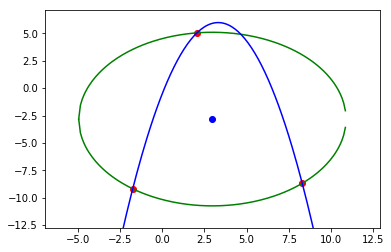
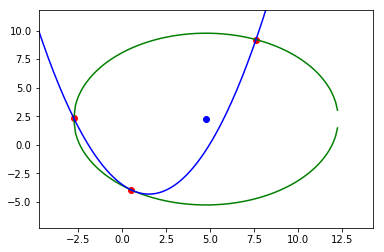
Jupyter Demo Notebook update

diff --git a/demo/plottingpoints.md b/demo/plottingpoints.md
@@ -102,6 +102,7 @@ def plot_quadratic(a,b,c):
 if __name__ == "__main__":
     from random import uniform as rand
     for i in range(5): #how many to show (in series)
+        print("="*40)
         points = ((rand(-10,10),rand(-10,10)),
                   (rand(-10,10),rand(-10,10)),
                   (rand(-10,10),rand(-10,10)))
@@ -110,16 +111,16 @@ if __name__ == "__main__":
         print("Center: "+str(cen))
         print("Radius: "+str(r))
         a, b, c = quadratic(points)
-        print("Quadratic: {}x^2+{}x+{}".format(a,b,c))  
+        print("Approx. quadratic equation: {}x^2+{}x+{}".format(round(a,2),round(b,2),round(c,2)))  
         plot(points, cen, r, a, b, c)
-        print("="*40)
 
 ```
 
-    Points: ((-1.7427085921923346, -9.182150993823653), (2.0614928355345477, 5.042412398201531), (8.301109853121599, -8.683272284302486))
-    Center: (2.975733286179632, -2.8230684494276193)
-    Radius: 7.918435739842605
-    Quadratic: -0.5913025988193992x^2+3.927669933441686x+-0.541561207602363
+    ========================================
+    Points: ((7.6108989105313825, 9.214517013713536), (-2.7531581756468837, 2.3335015453326236), (0.49648230279160366, -3.937366642695846))
+    Center: (4.766633714274075, 2.2529137534522503)
+    Radius: 7.520223697465466
+    Approx. quadratic equation: 0.36x^2+-1.11x+-3.48
 
 
 
@@ -127,10 +128,10 @@ if __name__ == "__main__":
 
 
     ========================================
-    Points: ((-0.6956753436643215, 9.668625745947885), (-8.349539467626334, -4.567408288034911), (5.090701731350599, 0.7702187037994594))
-    Center: (-3.090609235839241, 1.780708952705973)
-    Radius: 8.243478615547922
-    Quadratic: -0.2528079698111683x^2+-0.426722413761848x+9.494115486868209
+    Points: ((7.999371175378258, -1.2845517181872363), (-1.1430719461633174, 3.6872871732936936), (-1.966592653023163, 6.920611566044922))
+    Center: (6.819081364625115, 7.436767009433732)
+    Radius: 8.80082293800528
+    Approx. quadratic equation: 0.34x^2+-2.87x+-0.04
 
 
 
@@ -138,10 +139,10 @@ if __name__ == "__main__":
 
 
     ========================================
-    Points: ((8.253297097017555, -1.291685980568321), (5.651554358162045, -6.347312347285605), (2.5910532417972263, -2.585449418950465))
-    Center: (5.705304268938077, -3.1777014984826213)
-    Radius: 3.1700665585690784
-    Quadratic: 0.5602610842278507x^2+-5.847177948366613x+8.803555290686623
+    Points: ((8.218981057736052, -3.3342046937055203), (4.28972617025611, 6.760352896009888), (-1.4979977611907547, -6.793526420657329))
+    Center: (1.5936946685927742, -0.10106354453926458)
+    Radius: 7.3720839271266625
+    Approx. quadratic equation: -0.51x^2+3.75x+-0.04
 
 
 
@@ -149,15 +150,10 @@ if __name__ == "__main__":
 
 
     ========================================
-    Points: ((6.941295508396017, 7.461345825714048), (-1.1197741882078187, 0.24898741115447365), (0.3521692595817747, -1.0349315347639383))
-    Center: (3.1188329529295653, 3.6226095049257414)
-    Radius: 5.417297899182069
-    Quadratic: 0.268165428271058x^2+-0.6664159514206441x+-0.8334990537418007
-    ========================================
-    Points: ((-5.820857788545412, 7.24999303878214), (0.05947647667905187, 9.545002703358492), (8.403256078597863, 9.91424029976556))
-    Center: (5.207394896599501, -12.326008155386592)
-    Radius: 22.468693331867378
-    Quadratic: -0.024327177380254986x^2+0.2501274340681545x+9.530212061064065
+    Points: ((8.31053018031756, -4.382257810924697), (2.5799716505518298, 9.908080227350986), (-2.4787082479737705, 1.3629031516230032))
+    Center: (5.121995577192889, 2.6332828095781875)
+    Radius: 7.706138015455562
+    Approx. quadratic equation: -0.39x^2+1.73x+8.03
 
 
 
@@ -165,4 +161,12 @@ if __name__ == "__main__":
 
 
     ========================================
+    Points: ((9.680052565888502, -3.0211663072216215), (-7.816288575673688, 5.9223945818482555), (5.2136341945094, 2.945665210470832))
+    Center: (-4.338250417108895, -8.859377116621115)
+    Radius: 15.185437892207878
+    Approx. quadratic equation: -0.06x^2+-0.39x+6.72
+
+
+
+![png](output_0_9.png)
 
